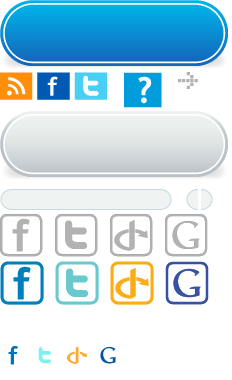
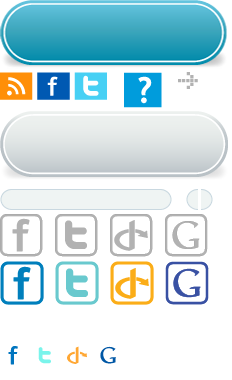
frontend redesign

Changed region(s): [[0.0, 0.0, 0.9957, 0.1737]]

diff --git a/www/css/main.css b/www/css/main.css
@@ -17,15 +17,15 @@ html, body {
 	padding: 1em 4em;
 	font: 13px Verdana, Arial, Sans-serif;
 	color: gray;
-	background: #fff;
+	background: #f4f2f2 url('./images/top_shade.png') no-repeat center bottom;
 }
 
 #logo {
 	display: inline-block;
-	margin-top: 1.1em;
-	width: 256px;
-	height: 69px;
-	background: url('/css/images/logo1-19.png') no-repeat;
+	width: 268px;
+	height: 88px;
+	background: url('/css/images/logo_beta.png') no-repeat;
+/*	background: url('/css/images/logo1-19.png') no-repeat;*/
 	/* width: 243px;
 	height: 46px;
 	background: url('/css/images/logo2-19.png') no-repeat; */
@@ -36,8 +36,8 @@ html, body {
 
 #account_area {
 	position: absolute;
-	top: 2em;
-	right: 0;
+	top: 3em;
+	right: 4em;
 }
 
 #top_account_buttons {
@@ -68,8 +68,8 @@ html, body {
 	width: 200px;
 	padding: 10px;
 	padding-top: 20px;
-	/* background: #ECECEC; */
-	background: #25B4E8;
+/*	background: #25B4E8;*/
+	background: #3da6bc;
 	border: none;
 }
 
@@ -81,7 +81,7 @@ html, body {
 #sign_in {
 	float: right;
 	background: #fff;
-	color: #25B4E8;
+	color: #3da6bc;
 	opacity: 0.7;
 }
 #sign_in:hover {
@@ -107,12 +107,10 @@ html, body {
 #footer_icon_hider {
 	position: absolute;
 	z-index: 3;
-	bottom: 90px; left: 0; right: 0;
+	bottom: 120px; left: 0; right: 0;
 	width: auto;
 	height: 15px;
 	background: #fff;
-	border-bottom: 2px solid #6DCFF6;
-	/* border-bottom: 2px solid #C5D4D8; */
 }
 
 #footer {
@@ -122,16 +120,16 @@ html, body {
 	width: auto;
 	bottom: 0;
 	padding: 0 4em;
-	height: 90px;
-	font: 13px Verdana, Arial, Sans-serif;
-	background: #0893d6 url('/css/images/blue_footer.png') repeat-x;
+	height: 120px;
+	font: 12px Arial, Helvetica, sans-serif;
+	background: #3da6bc url('./images/bottom_shade.png') no-repeat center top;
 }
 
 #menu {
 	margin-top: 0.5em;
 	list-style-type: none;
-	font: 12px Arial, Helvetica, sans-serif;
 	line-height: 1.5em;
+	color: #a7dae5;
 }
 
 #menu ul {
@@ -144,10 +142,11 @@ html, body {
 }
 
 #menu .item {
-	padding: 0.2em 0 0 0.1em;
-	border-bottom: 1px dashed white;
 	color: white;
-	text-decoration: none;
+	text-decoration: underline;
+/*	padding: 0.2em 0 0 0.1em;*/
+/*	border-bottom: 1px dashed white;*/
+/*	text-decoration: none;*/
 }
 
 #copyright {
@@ -173,19 +172,19 @@ html, body {
 }
 
 .main {
-	background: #fff url('/css/images/gray_background.png') repeat-x;
-	border-top: 2px solid #C5D4D8;
-	padding-bottom: 107px;
+	background: #fff;
+	padding-bottom: 137px;
 }
-.main.small_content { padding-top: 5em; }
+.main.small_content { padding-top: 4em; }
 .main.big_content { padding-top: 1em; }
 
 .selection_message, .error_message {
 	text-align: center;
 	font: 24px Verdana, Arial, Sans-Serif;
 }
-.selection_message { color: #009CDC; }
-.selection_message.wide { margin: 0 0 1.5em; }
+/*.selection_message { color: #009CDC; }*/
+.selection_message { color: #3da6bc; }
+.selection_message.wide { margin: 0 0 0.5em; }
 .selection_message.narrow { margin: 0 0 1em; }
 .error_message { margin: 0 0 1em; color: red; }
 
@@ -250,6 +249,25 @@ html, body {
 	background-position: -178px -71px;
 }
 
+#info_space {
+	width: 550px;
+	height: 210px;
+	margin: 3em auto 1.5em;
+	padding: 15px;
+	border: 7px solid white;
+	background-color: #f4f2f2;
+	-webkit-box-shadow: 0 0 10px 1px #b1b1b1;
+	-moz-box-shadow: 0 0 10px 1px #b1b1b1;
+	box-shadow: 0 0 10px 1px #b1b1b1;
+	font-size: 13px;
+	overflow-y: auto;
+}
+
+#info_space img {
+	float: left;
+	margin-right: 1em;
+}
+
 .signed_in_controls {
 	margin: 0.5em 0;
 	text-align: center;
@@ -284,7 +302,6 @@ html, body {
 
 .underlined_dash {
 	color: #009CDC;
-	background: #fff;
 }
 
 .underlined_dash.blue {
@@ -293,7 +310,7 @@ html, body {
 }
 
 .login_submit {
-	background: #25B4E8;
+	background: #3da6bc;
 	color: #fff;
 	border: none;
 	font-weight: bold;
@@ -397,11 +414,23 @@ html, body {
 	right: 0; top: 240px;
 	width: 38px;
 	height: 36px;
-	background: #009CDC url('/css/images/helper.png') no-repeat right top;
-	opacity: 0.5;
+/*	background: #009CDC url('/css/images/helper.png') no-repeat right top;*/
+	background: #3da6bc;
+/*	opacity: 0.5;*/
 	color: white;
 	overflow: hidden;
 	cursor: pointer;
+}
+
+#question {
+	position: absolute;
+	z-index: 6;
+	top: 0; right: 0;
+	width: 30px;
+	height: 30px;
+	padding: 1px 4px 5px;
+	font: bold 30px Arial, Helvetica, sans-serif;
+	text-align: center;
 }
 
 #helper .help_header {
@@ -465,7 +494,7 @@ html, body {
 
 .help_title {
 	text-align: left;
-	color: #009CDC;
+	color: #3da6bc;
 	font-weight: bold;
 	display: block;
 	margin-bottom: 1em;
